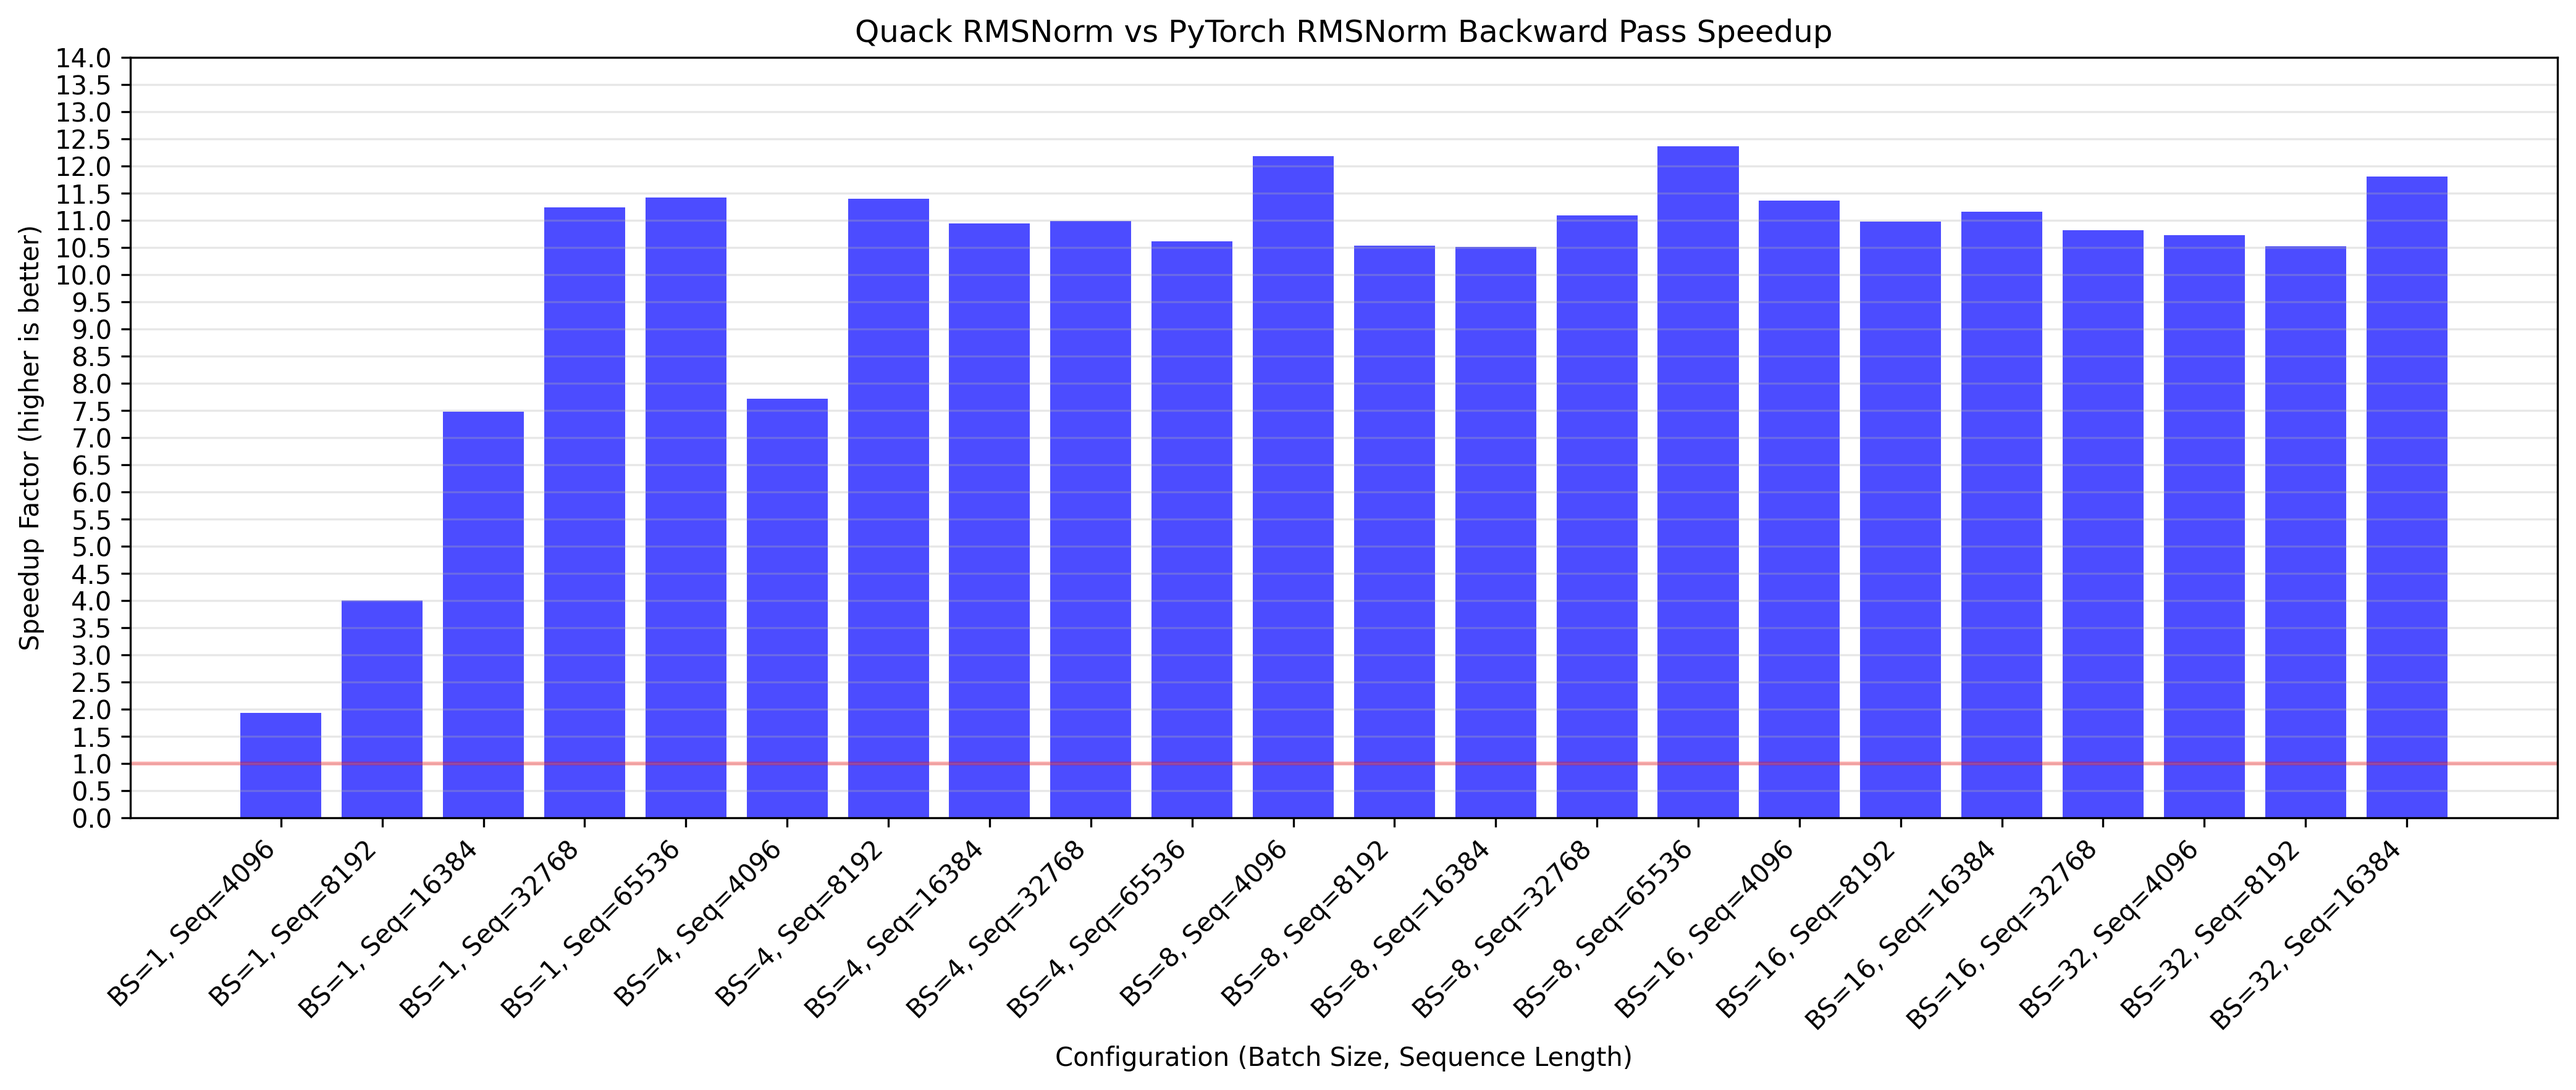
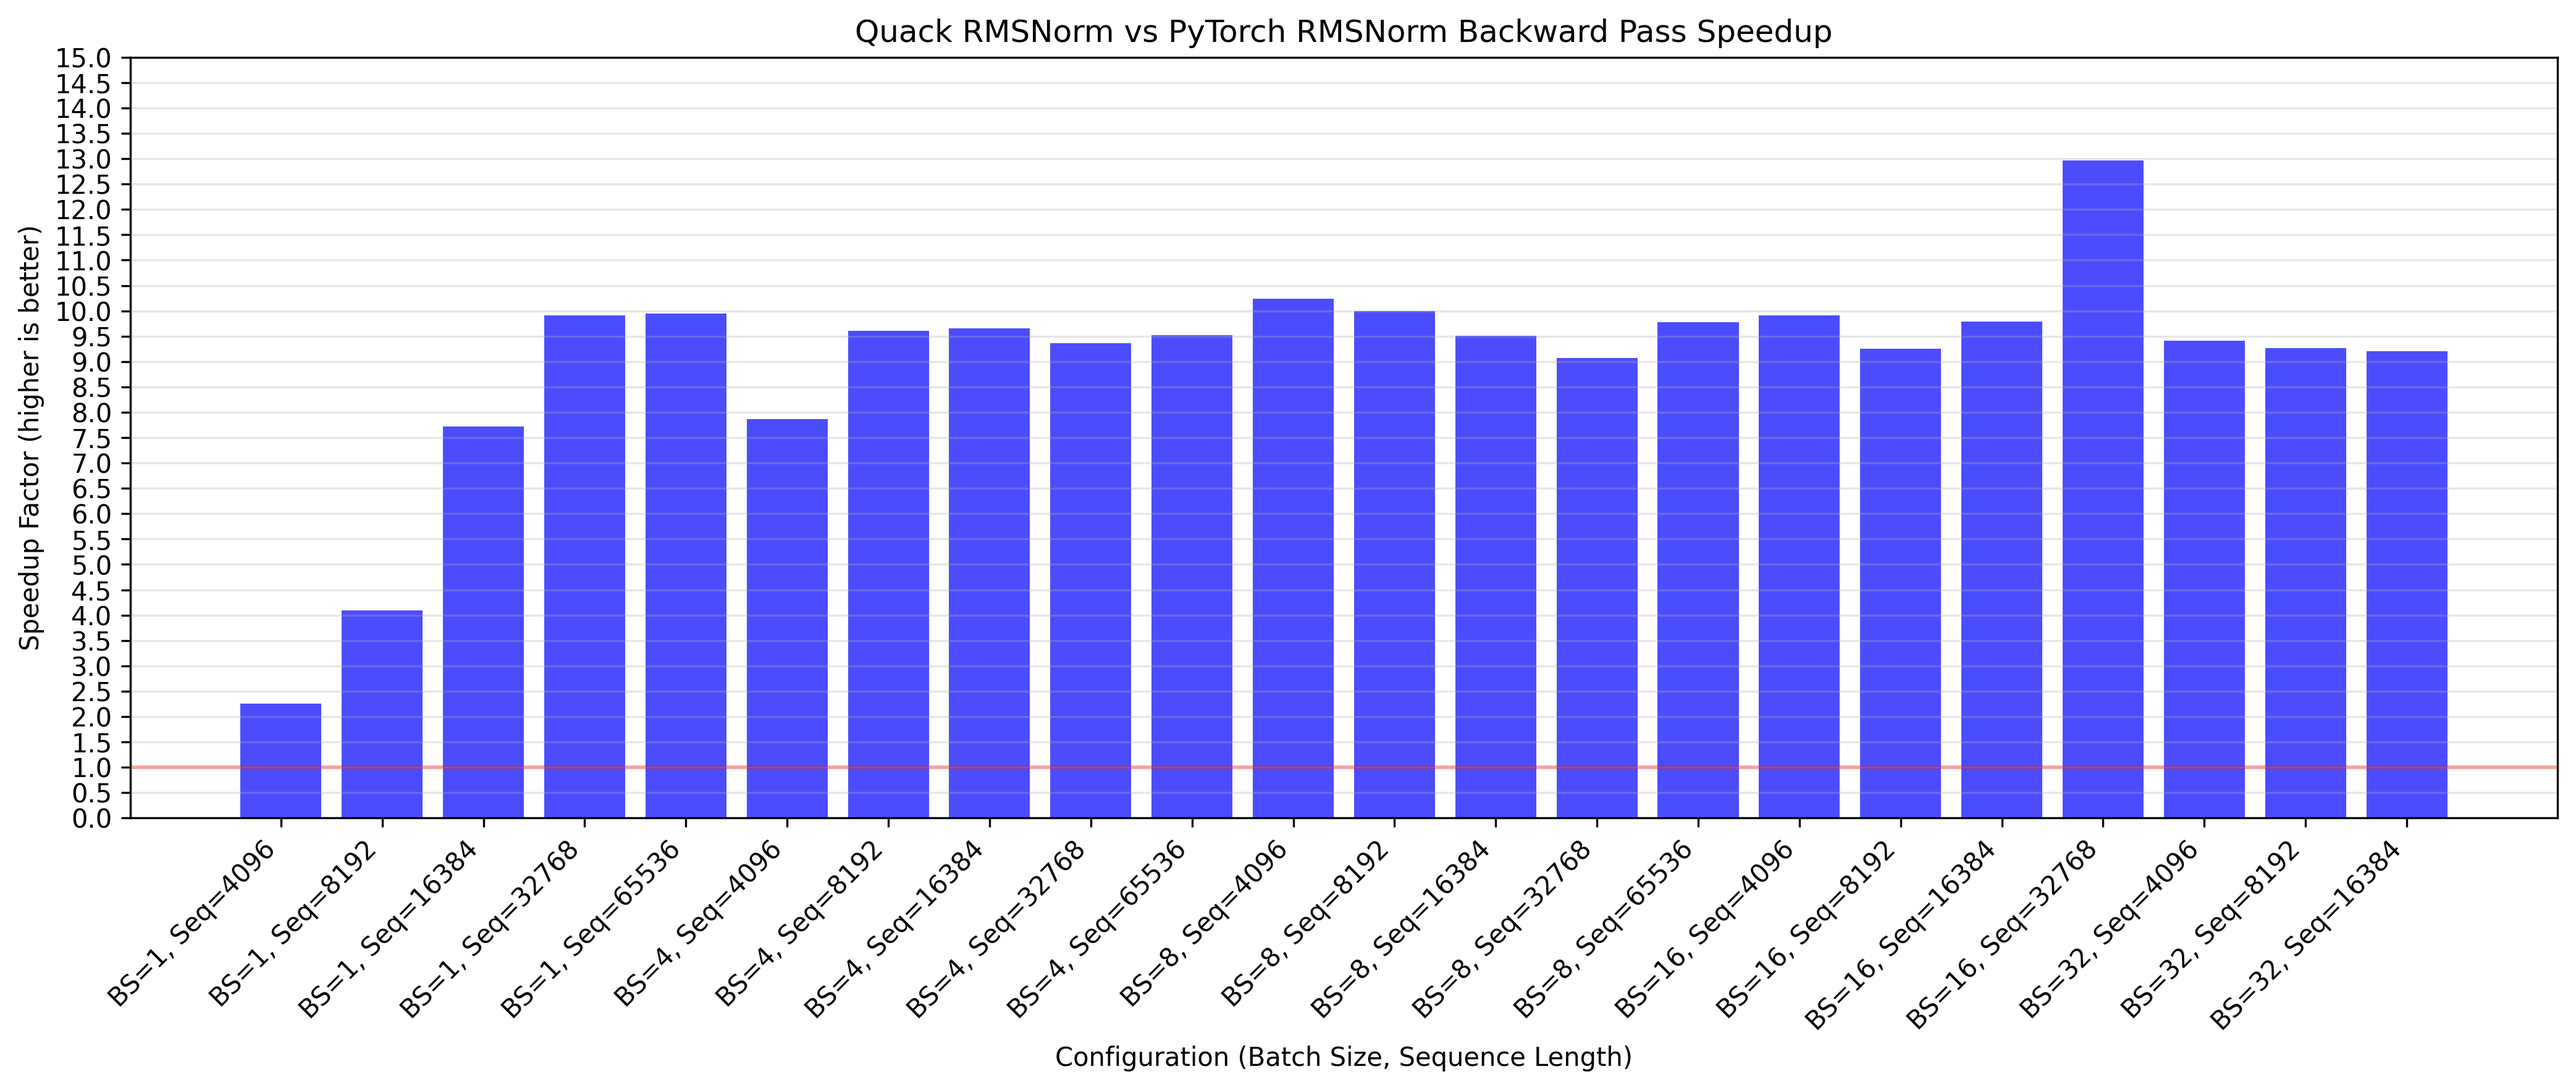
switch to triton.testing.do_bench

Changed region(s): [[0.0, 0.0934, 0.9976, 0.7475], [0.1559, 0.3737, 0.2182, 0.4049]]

diff --git a/benchmarks/pytorch_benchmark_rmsnorm_backward.py b/benchmarks/pytorch_benchmark_rmsnorm_backward.py
@@ -40,11 +40,17 @@ def benchmark_backward_implementation(
     warmup_ms = 25  # Default warmup time in ms
     rep_ms = 100  # Default repetition time in ms
 
-    # Define the function to benchmark
+    # Pre-clone the input data and set requires_grad outside the benchmark function
+    # This ensures we're not including the clone time in our measurements
+    input_with_grad = input_data.clone().requires_grad_(True)
+
+    # Define the function to benchmark (without the clone operation)
     def benchmark_fn():
-        input_data_clone = input_data.clone().requires_grad_(True)
-        output = model(input_data_clone)
+        output = model(input_with_grad)
         output.backward(grad_output)
+        # Reset gradients for next iteration
+        if input_with_grad.grad is not None:
+            input_with_grad.grad.zero_()
         return output  # Return is needed for do_bench but not used
 
     # Use Triton's do_bench to benchmark the function
@@ -259,6 +265,7 @@ def generate_speedup_graphs(quack_vs_pytorch, quack_vs_torchcompile, config_labe
     plt.xticks(x, config_labels, rotation=45, ha="right")
 
     # Add grid lines at .5 intervals
+    # Need to figure out better way to auto add finer lines when needed, but .5 for now...
     max_speedup = max(max(quack_vs_pytorch), max(quack_vs_torchcompile))
     y_max = max(2.0, np.ceil(max_speedup * 1.1))  # At least 2.0 or 10% above max
     plt.yticks(np.arange(0, y_max + 0.5, 0.5))  # Major ticks at 0.5 intervals
@@ -281,7 +288,7 @@ def generate_speedup_graphs(quack_vs_pytorch, quack_vs_torchcompile, config_labe
     plt.title("Quack RMSNorm vs PyTorch RMSNorm Backward Pass Speedup")
     plt.xticks(x, config_labels, rotation=45, ha="right")
 
-    # Add grid lines at .5 intervals
+    # Add grid lines at .5 intervals (same issue, need a more holistic way to generate grid lines)
     max_speedup = max(quack_vs_pytorch)
     y_max = max(2.0, np.ceil(max_speedup * 1.1))  # At least 2.0 or 10% above max
     plt.yticks(np.arange(0, y_max + 0.5, 0.5))  # Major ticks at 0.5 intervals
@@ -317,9 +324,10 @@ def generate_speedup_graphs(quack_vs_pytorch, quack_vs_torchcompile, config_labe
 
 if __name__ == "__main__":
     # Define batch sizes and sequence lengths to benchmark
+    # TODO - I used llama3-8B which has 4096 hidden dim as fixed hidden dim....let's look at MoE models next
     batch_sizes = [1, 4, 8, 16, 32]
     sequence_lengths = [4096, 8192, 16384, 32768, 65536]
-    hidden_features = 4096  # Fixed hidden dimension
+    hidden_features = 4096  # Fixed hidden dimension (based on llama3-8B)
     dtype = torch.bfloat16
 
     num_benchmark_iterations = 50
@@ -345,6 +353,7 @@ if __name__ == "__main__":
         for batch_size in batch_sizes:
             for sequence_length in sequence_lengths:
                 # Skip very large configurations that might cause OOM
+                # TODO - we should figure out a better way to determine this, ala check GPU memory before running...
                 if batch_size * sequence_length * hidden_features > 2**31:
                     print(f"Skipping BS={batch_size}, SeqLen={sequence_length} (too large)")
                     continue
